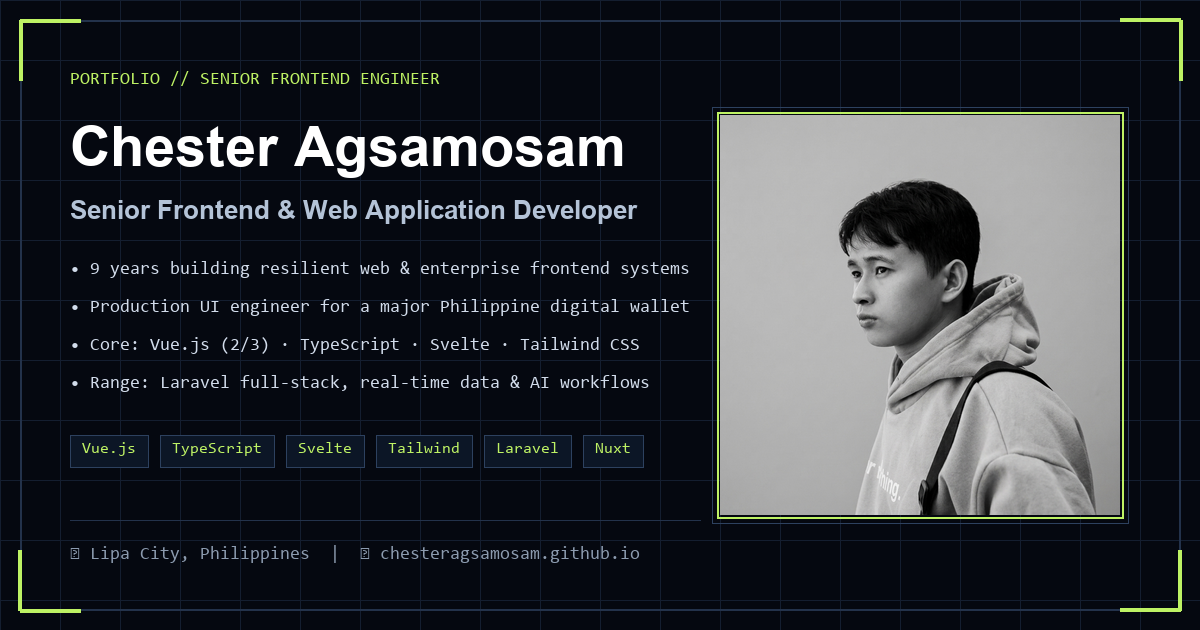
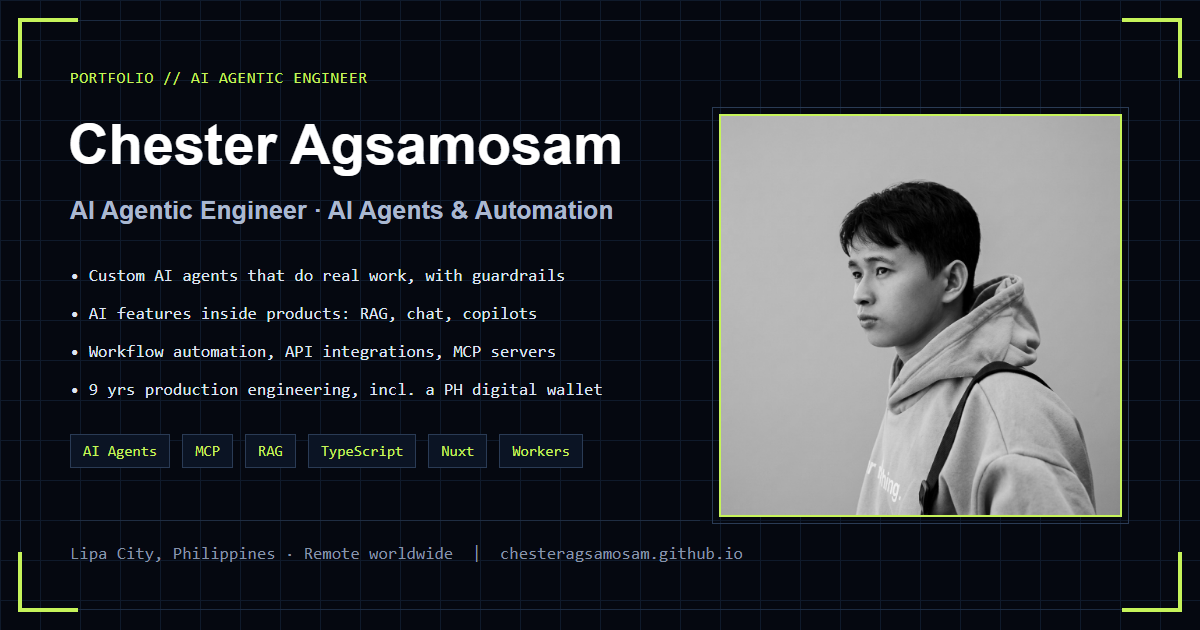
seo: reposition as AI agentic engineer across all signals
- Replace og-image (was "Senior Frontend Engineer") with AI agentic engineer card
- Add hasOccupation / AI skills to Person JSON-LD, drop Frontend Architecture
- Lead Ascendion with Development Specialist; neutral bullets
- Rewrite cover letter for AI engineering roles
- Update keywords, manifest, README, llms.txt/llms-full.txt positioning
- Bump sitemap lastmod to prompt re-crawl

diff --git a/shared/profile.ts b/shared/profile.ts
@@ -30,18 +30,18 @@ export const profile = {
     greeting: 'Dear Hiring Manager,',
     closing: 'Respectfully,',
     paragraphs: [
-    `I’m a developer with 9 years of experience building and maintaining production web applications. I currently work at Ascendion, where I contribute to a widely used digital wallet in the Philippines, working on new features, reusable components, bug fixes, and improvements to existing systems.`,
-    'My strongest experience is in frontend development using Vue.js, TypeScript, JavaScript, HTML, CSS, Bootstrap, and Tailwind CSS, with additional experience in Svelte. I also have experience with backend development, databases, APIs, and real-time data, which allows me to work across different parts of an application when needed.',
-    'Before Ascendion, I worked as a Full-Stack Developer at Codabyte, where I worked on website development, database administration, real-time crypto data streaming, and resolving issues across the application.',
-    'Most of my engineering now runs through AI agents. I plan the work, break it into checked steps, have agents draft and review the code, and verify every change against the real product before it ships. That workflow lets me deliver faster without lowering the quality bar.',
-    'I’m looking for an opportunity where I can apply my experience across frontend and backend development, continue growing, and contribute to building reliable and useful products.',
+    `I’m an AI agentic engineer with 9 years of experience building and maintaining production web applications. I design and ship AI agents that do real work: they read data, call APIs, run multi-step workflows inside guardrails, and hand off to a person when they should.`,
+    'Most of my engineering now runs through AI agents. I plan the work, break it into checked steps, have agents draft and review the code, and verify every change against the real product before it ships. I build with tool calling, the Model Context Protocol (MCP), retrieval-augmented generation (RAG), and prompt and evaluation design, and I deploy agents to the edge on Cloudflare Workers. The AI digital twin on my portfolio is a working example: a streaming chat agent grounded in my own profile so it answers from facts instead of guessing.',
+    'That agent work sits on a strong production foundation. At Ascendion I contribute to a widely used digital wallet in the Philippines, shipping features, reusable components, optimizations, and fixes under enterprise quality bars, and mentoring fellow developers. Before that, as a Full-Stack Developer at Codabyte, I handled website development, database administration, and real-time crypto data streaming.',
+    'Because I have shipped across the stack, from TypeScript, Vue.js, Nuxt, and Svelte interfaces to Laravel back ends and APIs, the agents I build come with a usable interface, sane error handling, and logs you can read, not only a demo.',
+    'I’m looking for an AI engineering role where I can build agents and AI features that run reliably in production, keep growing, and contribute to useful products.',
     ],
   },
   summary:
     'You get one engineer who owns the whole thing: the agent design, the integrations, the interface your users touch, and the production hardening. I scope small, ship a working version early, and measure whether it actually saves you time or money.',
   about: [
     'I am an AI agentic engineer. I build software where language models do more than chat. They read your data, call your APIs, make decisions inside guardrails you set, and hand off to a person when they should.',
-    'Before agents, I spent nine years shipping production web apps: five of them on frontend systems for a widely used Philippine digital wallet, plus Laravel full-stack and real-time data work. That background is why my agents come with a usable interface, sane error handling, and logs you can read.',
+    'Before agents, I spent nine years shipping production web apps: five of them on a widely used Philippine digital wallet, plus Laravel full-stack and real-time data work. That background is why my agents come with a usable interface, sane error handling, and logs you can read.',
     'The AI twin in the corner of this page is a small example. It is a streaming chat agent on a Cloudflare Worker, grounded in my own profile so it answers from facts instead of guessing.',
   ],
   services: [
@@ -134,20 +134,20 @@ export const profile = {
       span: '5 years',
       roles: [
         {
+          title: 'Development Specialist',
+          dates: '2021 — Present',
+          points: [
+            'Optimization and refactoring of production code: structure, performance, maintainability, and reuse.',
+            'Proactively proposing technical solutions during refinement and catching issues before they ship.',
+            'Technical guidance and mentorship for fellow developers.',
+          ],
+        },
+        {
           title: 'Frontend Developer',
           dates: 'November 2021 — Present',
           points: [
             'Feature work, support, and web-component development for a highly popular e-wallet in the Philippines.',
-            'Delivered production UI under enterprise quality bars — maintainable, performant, and built for continued evolution of the platform.',
-          ],
-        },
-        {
-          title: 'Development Specialist',
-          dates: '2021 — Present',
-          points: [
-            'Frontend optimization and refactoring: structure, performance, maintainability, and reuse.',
-            'Proactively proposing technical solutions during refinement and catching issues before they ship.',
-            'Technical guidance and mentorship for fellow developers.',
+            'Delivered production software under enterprise quality bars — maintainable, performant, and built for continued evolution of the platform.',
           ],
         },
       ],

diff --git a/app/composables/useJsonLd.ts b/app/composables/useJsonLd.ts
@@ -14,7 +14,13 @@ export function useJsonLd() {
     alternateName: ['Chester Agsamosam', 'CA', 'chesteragsamosam'],
     givenName: 'Chester',
     familyName: 'Agsamosam',
-    jobTitle: profile.title,
+    jobTitle: [profile.title, 'AI Engineer'],
+    hasOccupation: {
+      '@type': 'Occupation',
+      name: profile.title,
+      occupationLocation: { '@type': 'Country', name: 'Philippines' },
+      skills: 'AI agents, tool calling, Model Context Protocol, retrieval-augmented generation, workflow automation, LLM integration, TypeScript, full-stack web engineering',
+    },
     description: profile.headline,
     url: siteUrl,
     image: `${siteUrl}/${profile.photo.src}`,
@@ -47,10 +53,16 @@ export function useJsonLd() {
     knowsAbout: [
       'AI Agents',
       'Agentic Engineering',
+      'Agentic AI',
       'Large Language Models',
+      'LLM Integration',
+      'Tool Calling',
       'Workflow Automation',
       'Retrieval-Augmented Generation',
       'Model Context Protocol',
+      'Prompt Engineering',
+      'AI Evaluation',
+      'Cloudflare Workers',
       'Vue.js',
       'Vue 3',
       'TypeScript',
@@ -58,9 +70,8 @@ export function useJsonLd() {
       'Svelte',
       'Tailwind CSS',
       'Laravel',
-      'Frontend Architecture',
       'Web Application Development',
-      'Digital Wallet UI',
+      'Digital Wallet Platforms',
       'Web Components',
       'Nuxt.js',
       'Full-Stack Engineering',

diff --git a/app/pages/index.vue b/app/pages/index.vue
@@ -43,7 +43,7 @@ useHead({
   meta: [
     {
       name: 'keywords',
-      content: 'Chester Agsamosam, AI Agentic Engineer, AI agent developer for hire, custom AI agents, AI automation, LLM integration, Software Engineer Philippines, Vue.js Developer, TypeScript Engineer, Svelte Developer, Web Application Developer Lipa City, Ascendion Developer',
+      content: 'Chester Agsamosam, AI Agentic Engineer, AI Engineer Philippines, AI agent developer for hire, custom AI agents, agentic workflows, AI automation, LLM integration, RAG, MCP server developer, Cloudflare Workers AI, full-stack AI engineer, TypeScript, Nuxt',
     },
   ],
   script: [

diff --git a/app/pages/cover-letter.vue b/app/pages/cover-letter.vue
@@ -14,7 +14,7 @@ const today = new Intl.DateTimeFormat('en-US', {
 }).format(new Date())
 
 const pageTitle = `Cover Letter | ${profile.name} — ${profile.title}`
-const pageDescription = `Read ${profile.name}'s cover letter: 9 years building production web apps, digital wallet UI at scale, and an agent-driven engineering workflow.`
+const pageDescription = `Read ${profile.name}'s cover letter: an AI agentic engineer who builds tool-using AI agents, RAG, and MCP integrations, backed by 9 years of production engineering.`
 
 const { getBreadcrumbSchema } = useJsonLd()
 const breadcrumbs = getBreadcrumbSchema([

diff --git a/README.md b/README.md
@@ -1,4 +1,4 @@
-# Chester Agsamosam — Software Engineer Portfolio
+# Chester Agsamosam — AI Agentic Engineer Portfolio
 
 [![Vue.js](https://img.shields.io/badge/Vue.js-3.x-4FC08D?style=flat-square&logo=vue.js&logoColor=white)](https://vuejs.org/)
 [![TypeScript](https://img.shields.io/badge/TypeScript-5.x-3178C6?style=flat-square&logo=typescript&logoColor=white)](https://www.typescriptlang.org/)
@@ -7,7 +7,7 @@
 [![GitHub Pages](https://img.shields.io/badge/Deployment-GitHub_Pages-222222?style=flat-square&logo=github&logoColor=white)](https://chesteragsamosam.github.io/chesteragsamosam/)
 [![License: MIT](https://img.shields.io/badge/License-MIT-yellow.svg?style=flat-square)](LICENSE)
 
-> Official portfolio, technical case notes, and interactive digital twin for **Chester Agsamosam**, a Software Engineer with 9 years of software development experience, specializing in high-scale frontend systems using **Vue.js (2 & 3)**, **TypeScript**, and **Svelte**. Includes production UI engineering for a leading Philippine digital wallet at Ascendion, full-stack Laravel range, technical SEO architecture, Schema structured data, and Core Web Vitals audit optimization.
+> Official portfolio and interactive AI digital twin for **Chester Agsamosam**, an **AI Agentic Engineer** who builds custom AI agents, AI features inside products, and workflow automations, using **tool calling**, **MCP**, **RAG**, and **Cloudflare Workers**. Backed by 9 years of production engineering (since 2017), including a leading Philippine digital wallet at Ascendion and full-stack **TypeScript**, **Vue/Nuxt**, **Svelte**, and **Laravel** work.
 
 - 🌐 **Live Portfolio:** [https://chesteragsamosam.github.io/chesteragsamosam/](https://chesteragsamosam.github.io/chesteragsamosam/)
 - 📄 **Cover Letter:** [https://chesteragsamosam.github.io/chesteragsamosam/cover-letter](https://chesteragsamosam.github.io/chesteragsamosam/cover-letter)
@@ -18,9 +18,11 @@
 
 ## ⚡ Quick Highlights
 
-- **9 Years of Software Development Experience** (since 2017), with 5+ continuous years dedicated to modern frontend architecture.
+- **AI Agentic Engineering:** Tool-using agents, multi-step workflows with human approval steps, RAG, MCP servers, guardrails, evaluations, and logging.
+- **Agent-driven delivery:** Work is planned into checked steps, drafted and reviewed by AI agents, and verified against the real product before shipping.
+- **9 Years of Production Engineering** (since 2017) across full-stack web, real-time data, and enterprise fintech.
 - **Enterprise Scale UI:** Developed production features, design system components, and performance optimizations for a premier Philippine digital wallet used by millions.
-- **Core Technology Stack:** Vue.js (2/3, Composition API), TypeScript, Svelte, Tailwind CSS, Nuxt, and Laravel.
+- **Core Technology Stack:** TypeScript, Nuxt, Vue.js (2/3), Svelte, Laravel, Cloudflare Workers, OpenRouter, Tailwind CSS.
 - **Craft & Performance:** Statically generated with Nuxt, optimized for Core Web Vitals (LCP/CLS/INP), full Schema.org JSON-LD structured data, and responsive high-contrast aesthetics.
 
 ---
@@ -97,7 +99,7 @@ chesteragsamosam/
 ## 🎯 Projects & Selected Highlights
 
 1. **Portfolio & Digital Twin:**
-   - Responsive, dark-mode personal site featuring dynamic particle canvas, interactive career timeline, and an AI-powered conversational twin.
+   - Streaming AI chat agent on a Cloudflare Worker, grounded in a structured profile so it answers from facts instead of guessing, inside a statically generated Nuxt site.
    - Live at [chesteragsamosam.github.io/chesteragsamosam](https://chesteragsamosam.github.io/chesteragsamosam/)
 2. **Enterprise Digital Wallet UI (Ascendion):**
    - Built resilient web-components and mission-critical payment workflows.
@@ -109,7 +111,7 @@ chesteragsamosam/
 
 ## 📬 Availability & Contact
 
-I am open to software engineering roles, including UI architecture and product-focused development.
+I am available for AI agent and automation projects with clients worldwide, and open to AI engineering roles.
 
 - **Email:** [chesteragsamosam@gmail.com](mailto:chesteragsamosam@gmail.com)
 - **LinkedIn:** [linkedin.com/in/chesteragsamosam](https://www.linkedin.com/in/chesteragsamosam)
